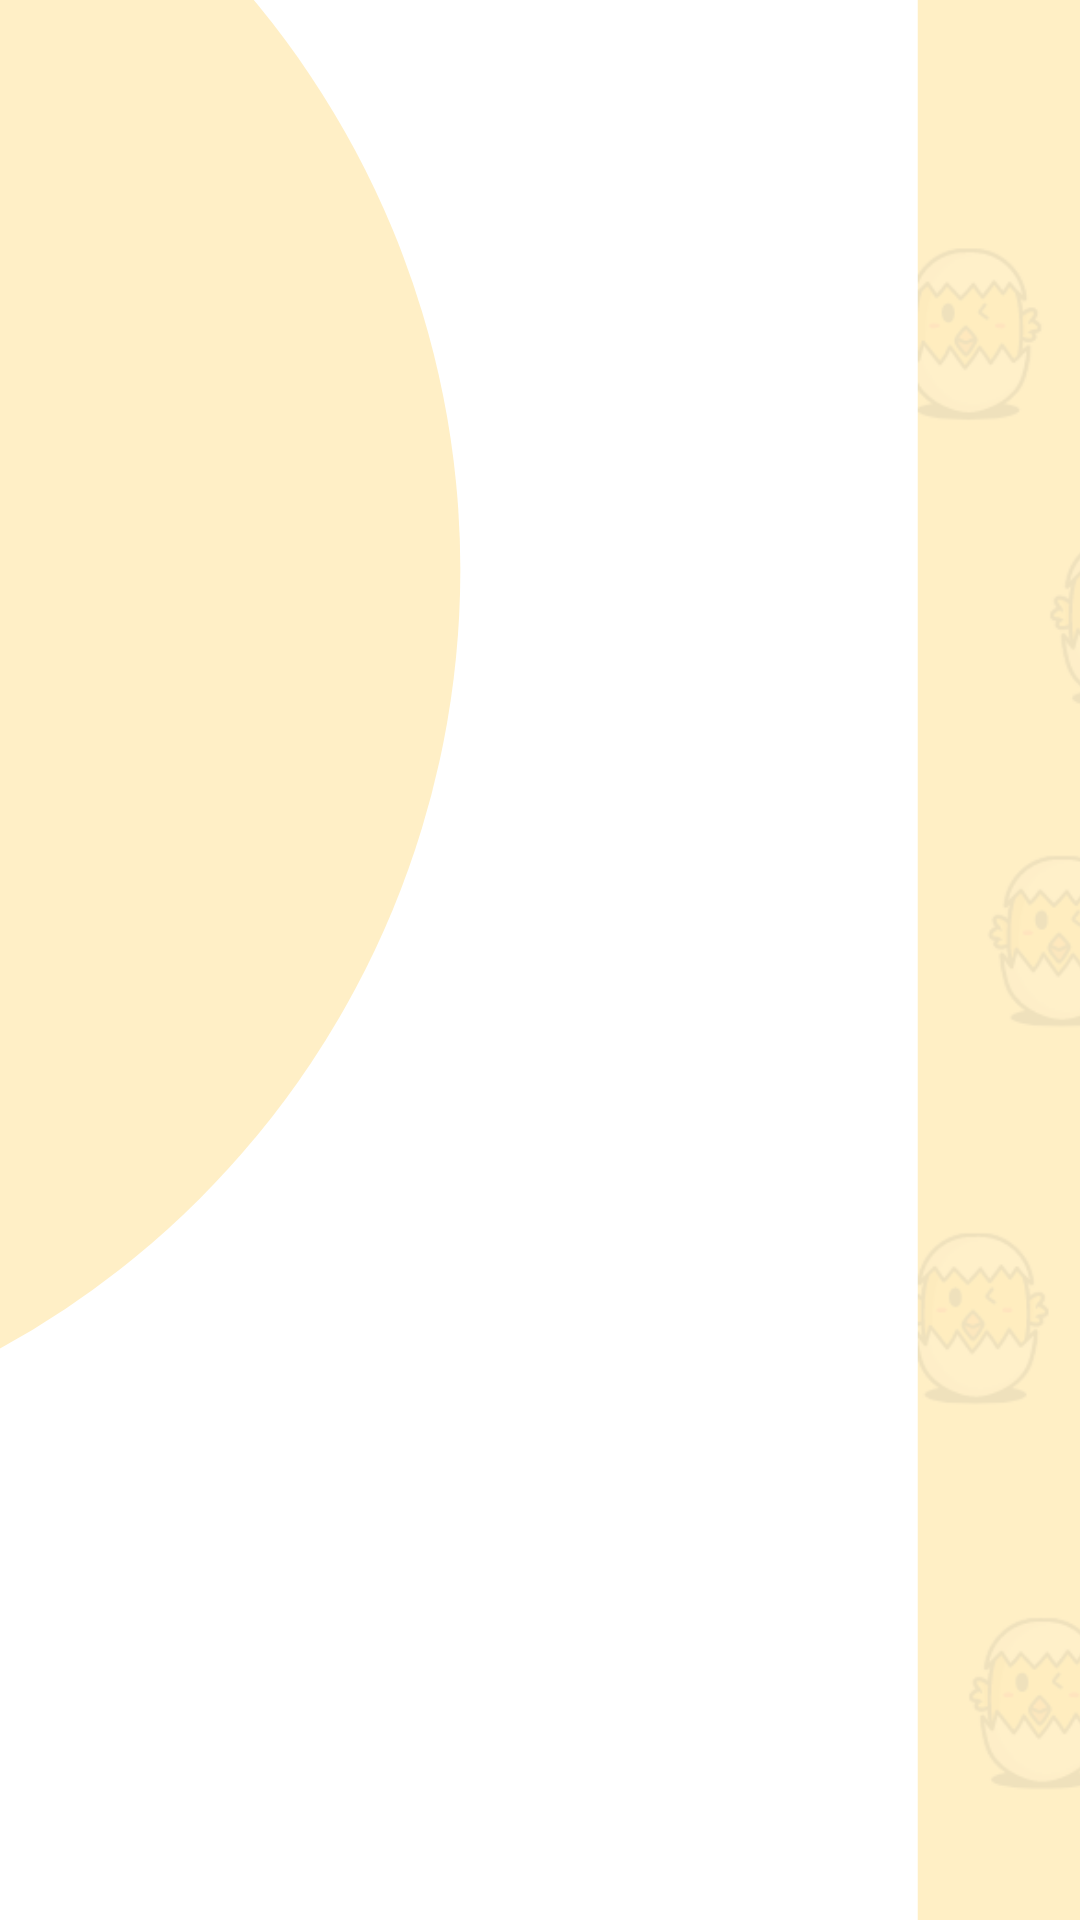
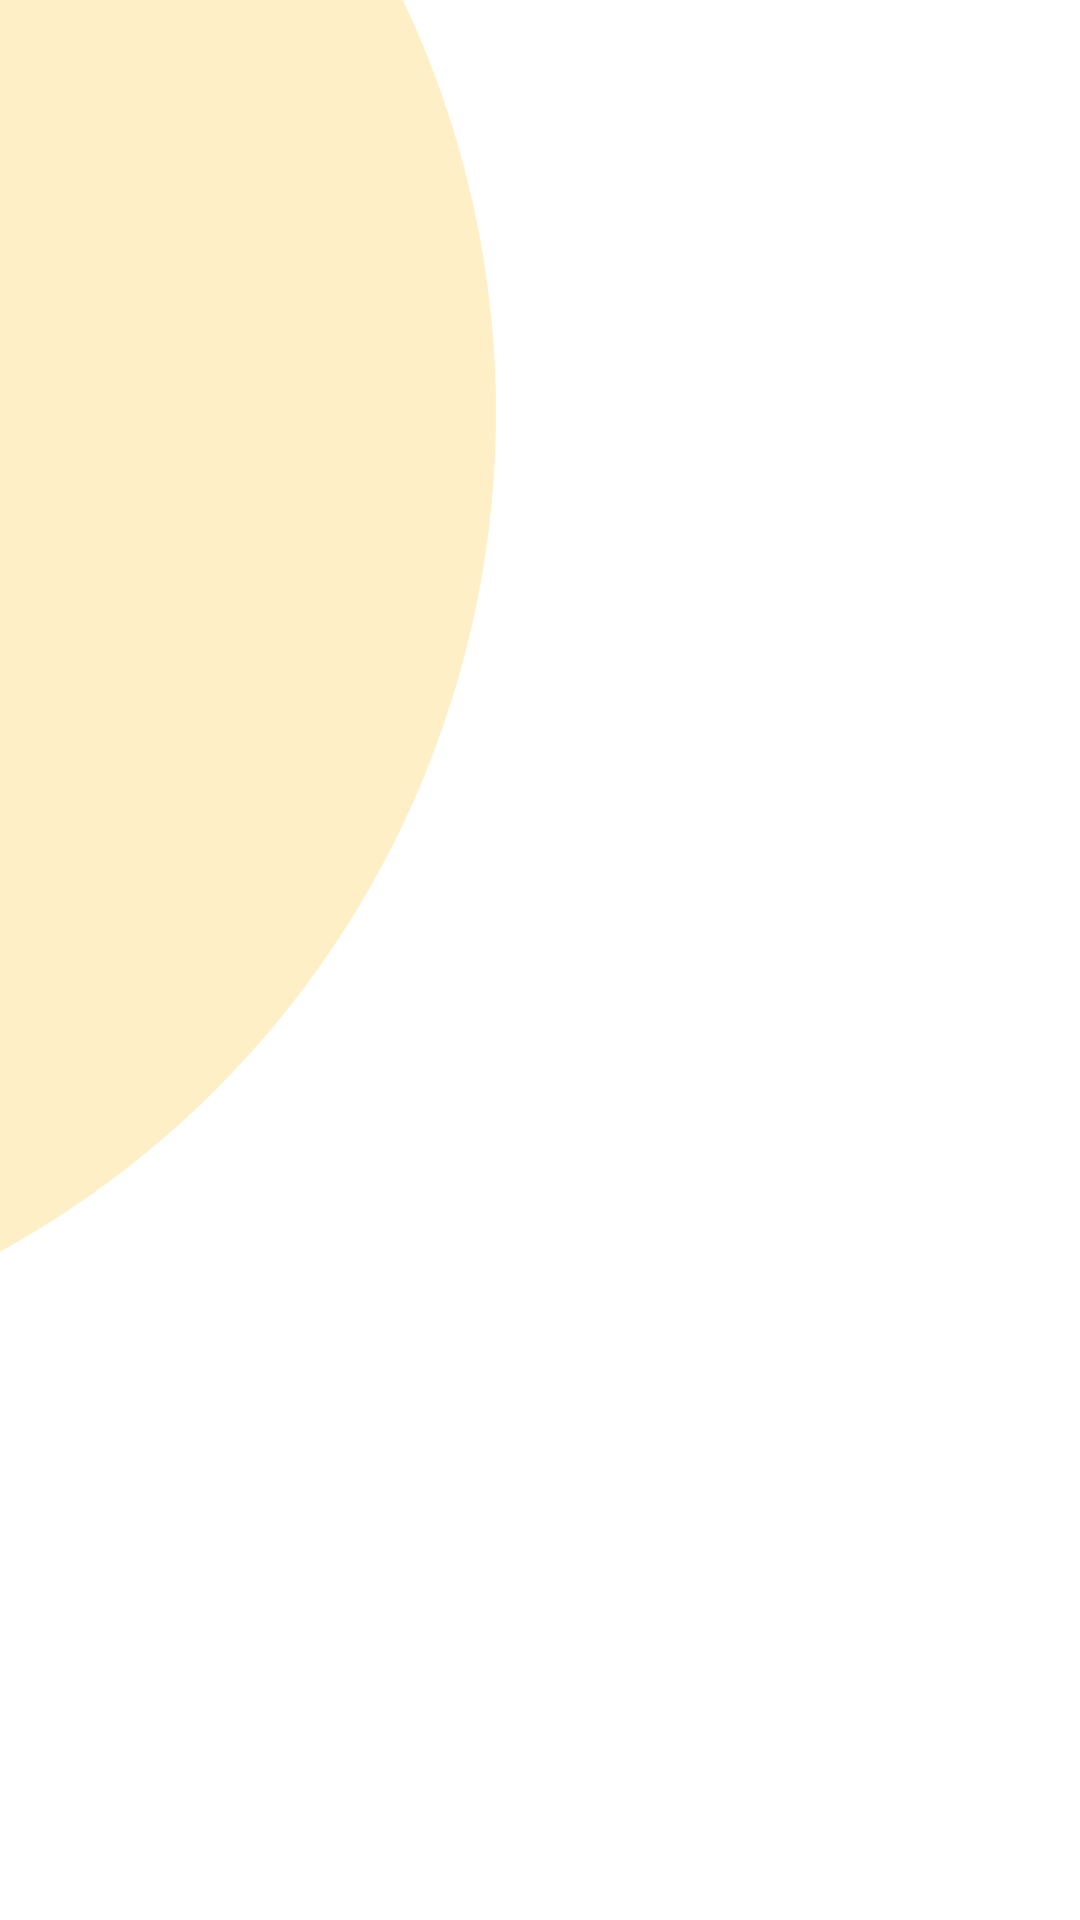
..

diff --git a/lib/screens/home/components/body.dart b/lib/screens/home/components/body.dart
@@ -18,6 +18,13 @@ class _BodyState extends State<Body> {
   Widget build(BuildContext context) {
     return Stack(
       children: [
+        Positioned(
+          width: getProportionateScreenWidth(55),
+
+          right: 0,
+          child: Image(
+              image: AssetImage("assets/images/rightbar.png")),
+        ),
         Container(
           decoration: BoxDecoration(
             image: DecorationImage(
@@ -166,7 +173,7 @@ class _BodyState extends State<Body> {
                   ),
                   Container(
                     width: getProportionateScreenWidth(320),
-                    height: getProportionateScreenHeight(165),
+                    height: getProportionateScreenHeight(130),
                     child: ListView.builder(
                         itemCount: 10,
                         scrollDirection: Axis.horizontal,
@@ -177,6 +184,7 @@ class _BodyState extends State<Body> {
                             child: Stack(
                               children: [
                                 Container(
+                                  height: getProportionateScreenHeight(130),
                                   child: ClipRRect(
                                     borderRadius: BorderRadius.circular(10.0),
                                     child: Image.network(
@@ -186,14 +194,14 @@ class _BodyState extends State<Body> {
                                   ),
                                 ),
                                 Padding(
-                                  padding: EdgeInsets.only(left: 5),
+                                  padding: EdgeInsets.only(left: 5,top: 2),
                                   child: Column(
                                     crossAxisAlignment: CrossAxisAlignment.start,
                                     children: [
                                       Text(
                                         "Yash Sharma",
                                         style: TextStyle(
-                                          fontSize: getProportionateScreenWidth(15),
+                                          fontSize: getProportionateScreenWidth(12),
                                           color: Colors.white,
                                           fontFamily: "OpenSans",
                                           fontWeight: FontWeight.w800,
@@ -202,7 +210,7 @@ class _BodyState extends State<Body> {
                                       Text(
                                         "CSE,2024",
                                         style: TextStyle(
-                                          fontSize: getProportionateScreenWidth(12),
+                                          fontSize: getProportionateScreenWidth(10),
                                           color: Colors.white,
                                           fontFamily: "OpenSans",
                                           fontWeight: FontWeight.w500,
@@ -250,38 +258,44 @@ class _BodyState extends State<Body> {
                                   index%2==0?Align(
                                     alignment: Alignment.bottomCenter,
                                     child: Container(
-                                      height: getProportionateScreenHeight(55),
+                                      height: getProportionateScreenHeight(95),
                                       width: double.maxFinite,
                                       color: Colors.black.withOpacity(0.7),
                                       child: Column(
-                                        mainAxisSize: MainAxisSize.min,
-                                        crossAxisAlignment: CrossAxisAlignment.start,
+                                        mainAxisAlignment: MainAxisAlignment.spaceBetween,
                                         children: [
-                                          SizedBox(height: getProportionateScreenHeight(5),),
-                                          Center(
-                                            child: Text(
-                                              "Yash Sharma",
-                                              style: TextStyle(
-                                                fontSize: getProportionateScreenWidth(15),
-                                                color: Colors.white,
-                                                fontFamily: "OpenSans",
-                                                fontWeight: FontWeight.w800,
+                                          SizedBox(height: 1,),
+                                          Column(
+                                            mainAxisSize: MainAxisSize.min,
+                                            crossAxisAlignment: CrossAxisAlignment.start,
+                                            children: [
+                                              Center(
+                                                child: Text(
+                                                  "Yash Sharma",
+                                                  style: TextStyle(
+                                                    fontSize: getProportionateScreenWidth(12),
+                                                    color: Colors.white,
+                                                    fontFamily: "OpenSans",
+                                                    fontWeight: FontWeight.w800,
+                                                  ),
+                                                ),
                                               ),
-                                            ),
-                                          ),
-                                          Center(
-                                            child: Text(
-                                              "CSE,2024",
-                                              style: TextStyle(
-                                                fontSize: getProportionateScreenWidth(12),
-                                                color: Colors.white,
-                                                fontFamily: "OpenSans",
-                                                fontWeight: FontWeight.w500,
+                                              Center(
+                                                child: Text(
+                                                  "CSE,2024",
+                                                  style: TextStyle(
+                                                    fontSize: getProportionateScreenWidth(10),
+                                                    color: Colors.white,
+                                                    fontFamily: "OpenSans",
+                                                    fontWeight: FontWeight.w500,
+                                                  ),
+                                                ),
                                               ),
-                                            ),
+                                              SizedBox(height: 5,),
+                                            ],
                                           ),
                                         ],
-                                      ),
+                                      )
                                     ),
                                   ):Center(),
                                   Container(
@@ -293,7 +307,7 @@ class _BodyState extends State<Body> {
                                   index%2!=0?Align(
                                     alignment: Alignment.bottomCenter,
                                     child: Container(
-                                      height: getProportionateScreenHeight(55),
+                                      height: getProportionateScreenHeight(40),
                                       width: double.maxFinite,
                                       color: Colors.white.withOpacity(0.7),
                                       child: Column(
@@ -304,7 +318,7 @@ class _BodyState extends State<Body> {
                                             child: Text(
                                               "Yash Sharma",
                                               style: TextStyle(
-                                                fontSize: getProportionateScreenWidth(15),
+                                                fontSize: getProportionateScreenWidth(12),
                                                 color: Colors.black,
                                                 fontFamily: "OpenSans",
                                                 fontWeight: FontWeight.w800,
@@ -315,7 +329,7 @@ class _BodyState extends State<Body> {
                                             child: Text(
                                               "CSE,2024",
                                               style: TextStyle(
-                                                fontSize: getProportionateScreenWidth(12),
+                                                fontSize: getProportionateScreenWidth(10),
                                                 fontFamily: "OpenSans",
                                                 color: index%2==0?Colors.white:Colors.black,
                                                 fontWeight: FontWeight.w500,
@@ -347,7 +361,7 @@ class _BodyState extends State<Body> {
                                       child: Text(
                                         "Lorem ipsum dolor sit amet coonsequuntur voluptatum laboruuas aliquid. Reprehenderit, quia. Quo neque error repudiandae fuga? ",
                                         textAlign: TextAlign.center,
-                                        style: TextStyle(fontFamily: "OpenSans",color: Colors.black,fontSize: getProportionateScreenWidth(12)),
+                                        style: TextStyle(fontFamily: "OpenSans",color: Colors.black,fontSize: getProportionateScreenWidth(11)),
                                       ),
                                     ),
                                     GestureDetector(
@@ -356,7 +370,7 @@ class _BodyState extends State<Body> {
                                       },
                                       child: Align(
                                         alignment: Alignment.bottomRight,
-                                        child: Text("See More",style: TextStyle(fontFamily: "OpenSans",color: Colors.blue),),
+                                        child: Text("See More",style: TextStyle(fontFamily: "OpenSans",color: Colors.blue,fontSize: getProportionateScreenWidth(11)),),
                                       ),
                                     )
                                   ],
@@ -378,6 +392,7 @@ class _BodyState extends State<Body> {
             ),
           ),
         ),
+
       ]
     );
   }
